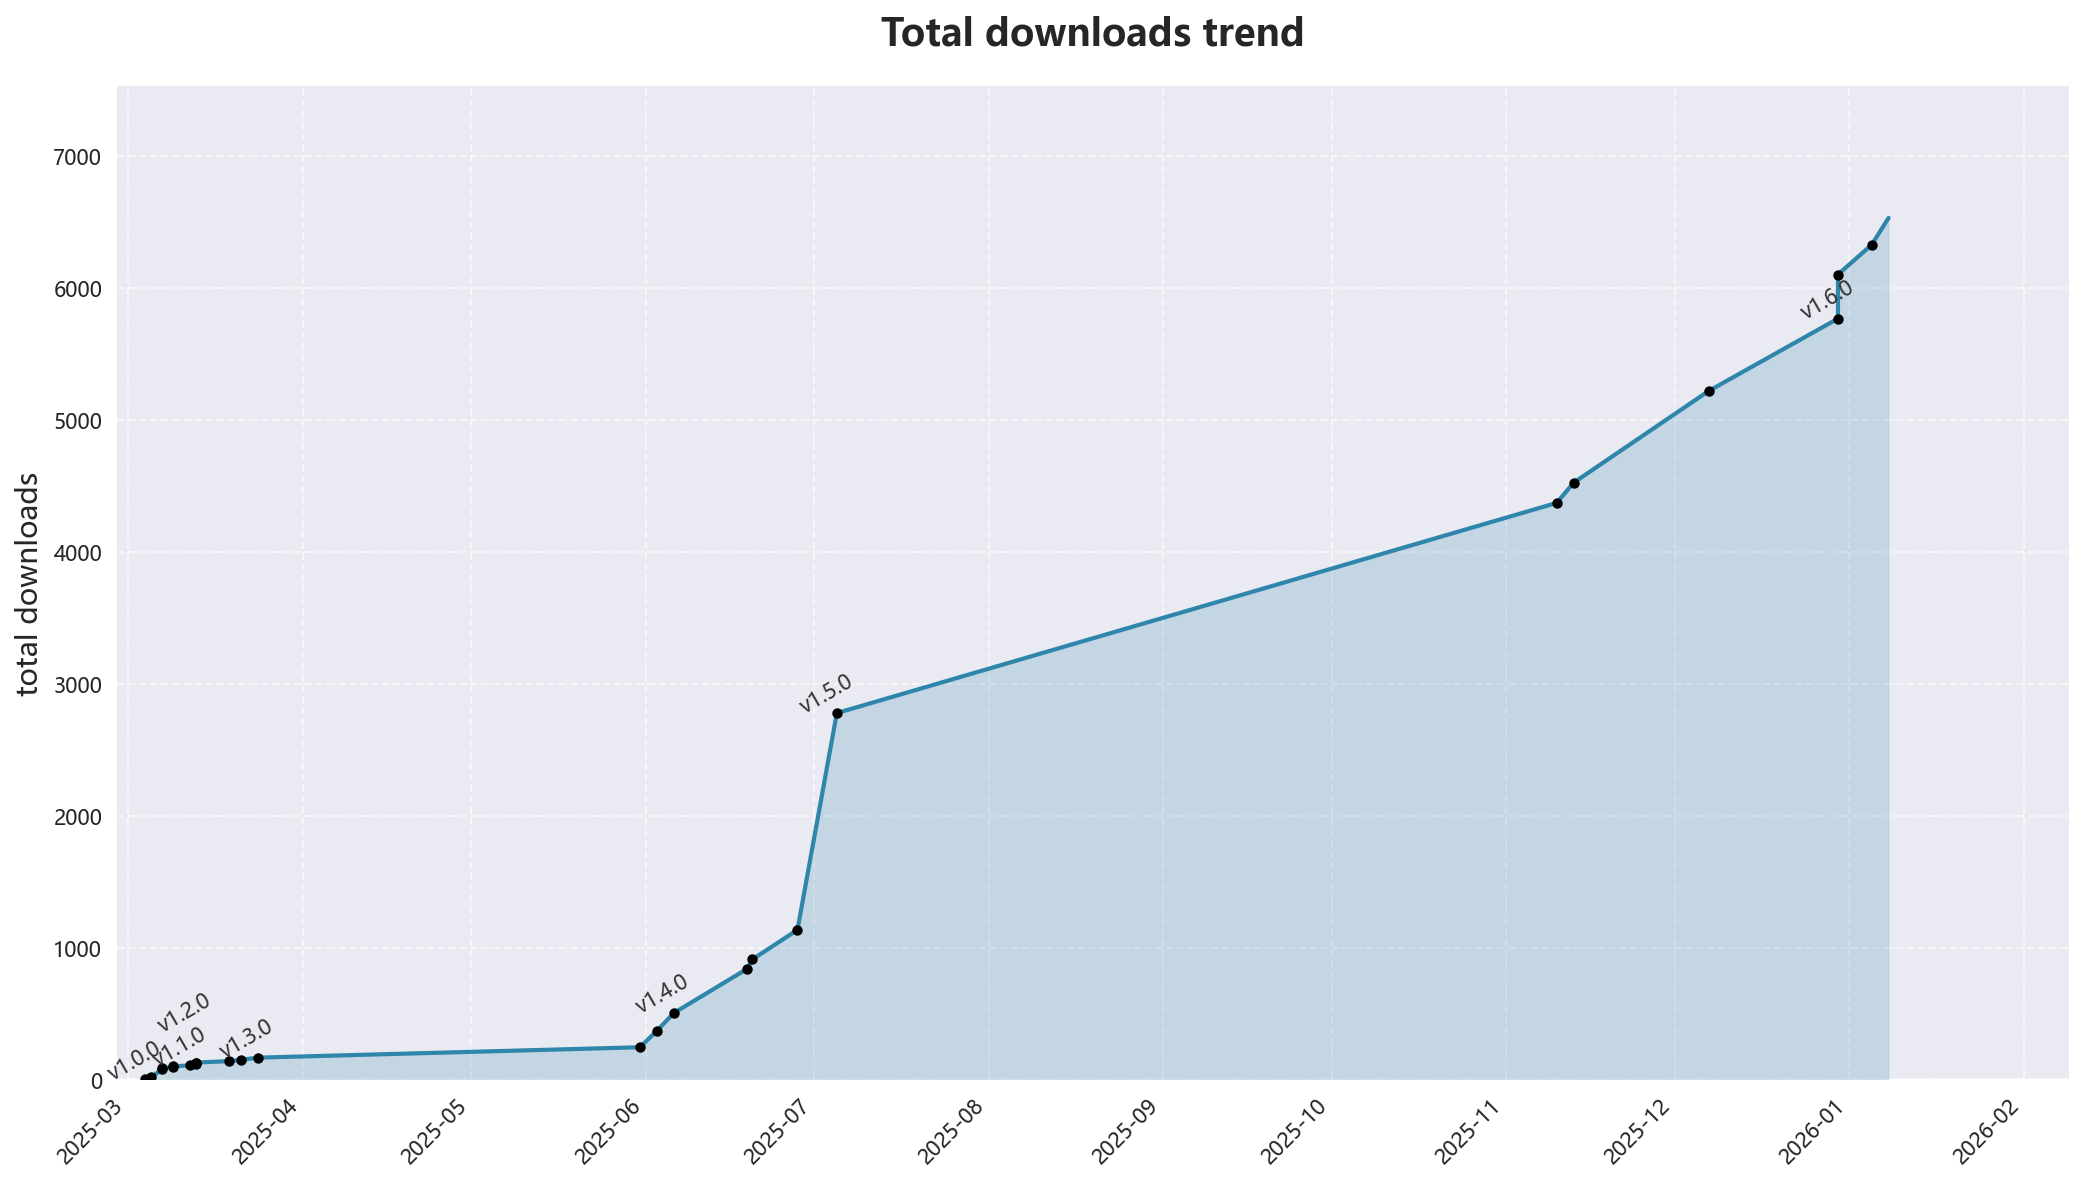
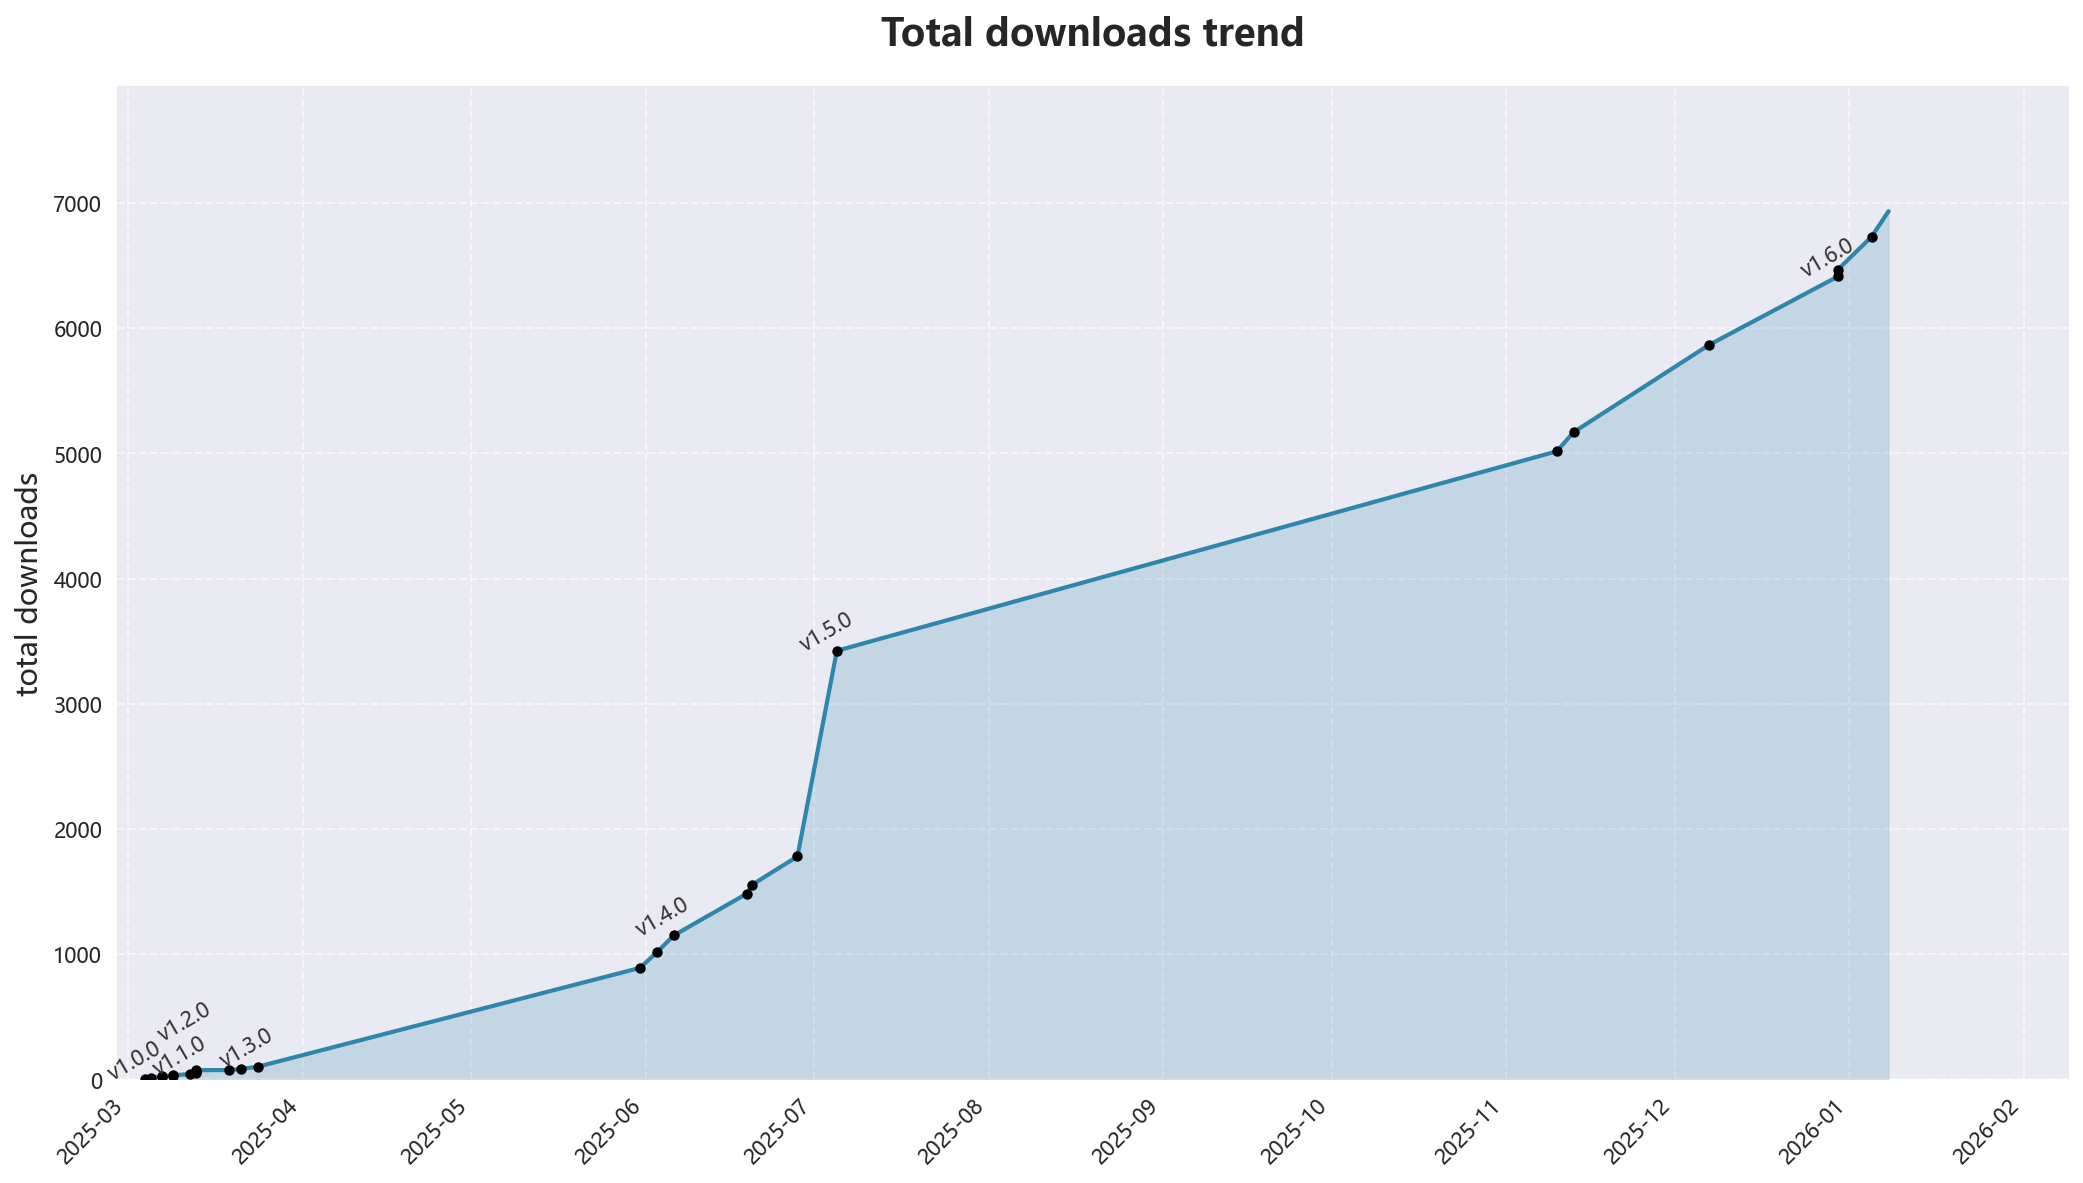
Data fix

diff --git a/miscellaneous/downloads-Trend.py b/miscellaneous/downloads-Trend.py
@@ -20,18 +20,18 @@ plt.rcParams["axes.unicode_minus"] = False
 # 原始数据
 data = [
     ("2025-03-04", 15, "1.0.0"),
-    ("2025-03-05", 61, "1.0.1"),
+    ("2025-03-05", 6, "1.0.1"),
     ("2025-03-07", 7, "1.0.2"),
-    ("2025-03-07", 11, "1.0.3"),
+    ("2025-03-07", 1, "1.0.3"),
     ("2025-03-09", 5, "1.0.4"),
     ("2025-03-09", 8, "1.0.5"),
     ("2025-03-12", 12, "1.1.0"),
     ("2025-03-13", 8, "1.1.1"),
-    ("2025-03-13", 1, "1.2.0"),
-    ("2025-03-13", 11, "1.2.1"),
+    ("2025-03-13", 12, "1.2.0"),
+    ("2025-03-13", 1, "1.2.1"),
     ("2025-03-19", 9, "1.2.2"),
     ("2025-03-21", 17, "1.2.3"),
-    ("2025-03-24", 79, "1.3.0"),
+    ("2025-03-24", 790, "1.3.0"),
     ("2025-05-31", 124, "1.3.1"),
     ("2025-06-03", 135, "1.3.2"),
     ("2025-06-06", 334, "1.4.0"),
@@ -42,8 +42,8 @@ data = [
     ("2025-11-10", 153, "1.5.1"),
     ("2025-11-13", 695, "1.5.2"),
     ("2025-12-07", 549, "1.5.3"),
-    ("2025-12-30", 334, "1.6.0"),
-    ("2025-12-30", 226, "1.6.1"),
+    ("2025-12-30", 55, "1.6.0"),
+    ("2025-12-30", 263, "1.6.1"),
     ("2026-01-05", 203, "1.6.2"),
 ]
 
